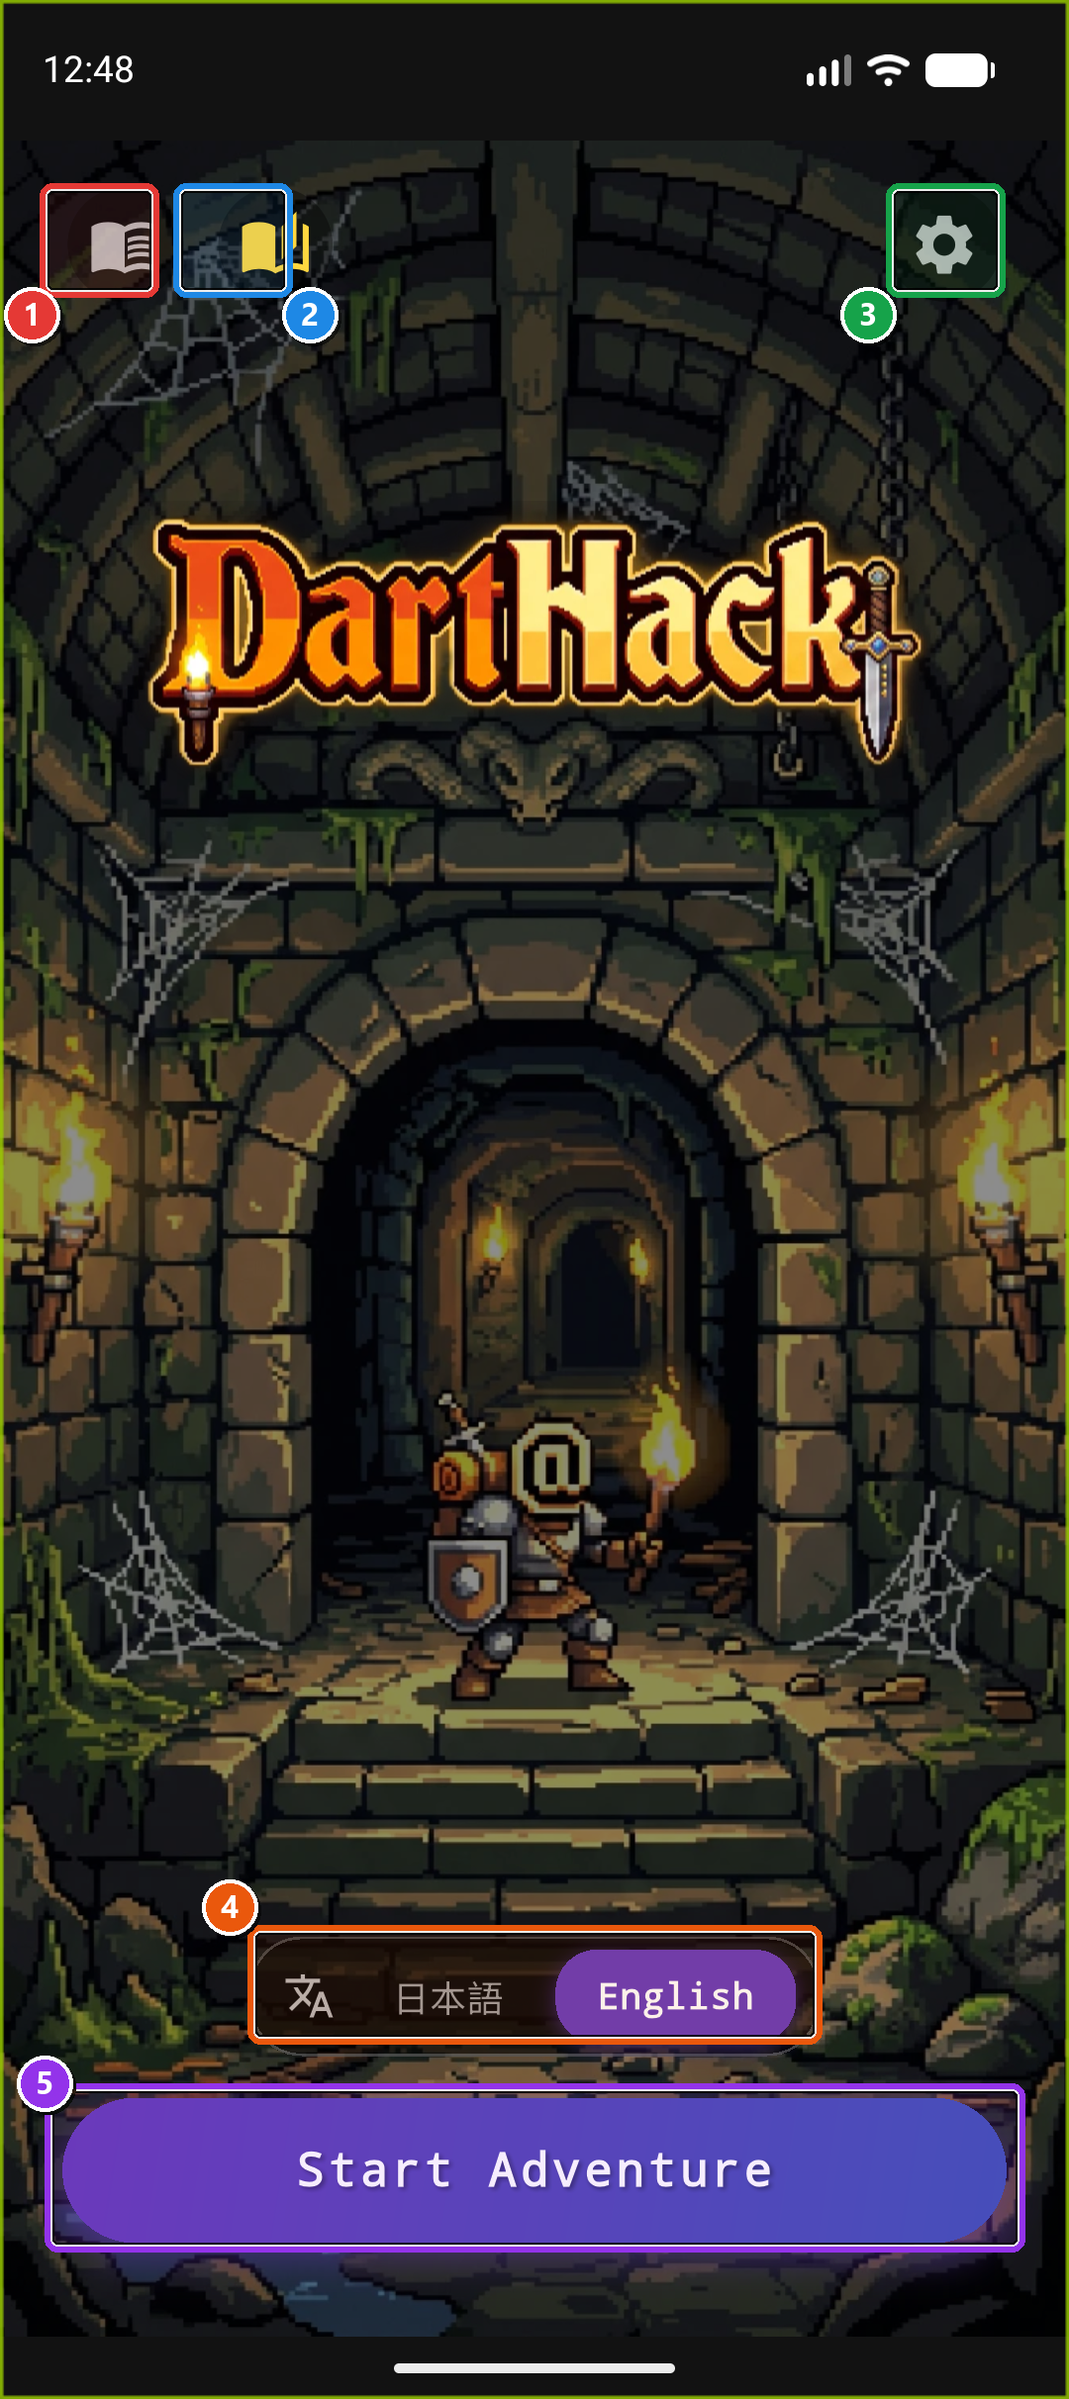
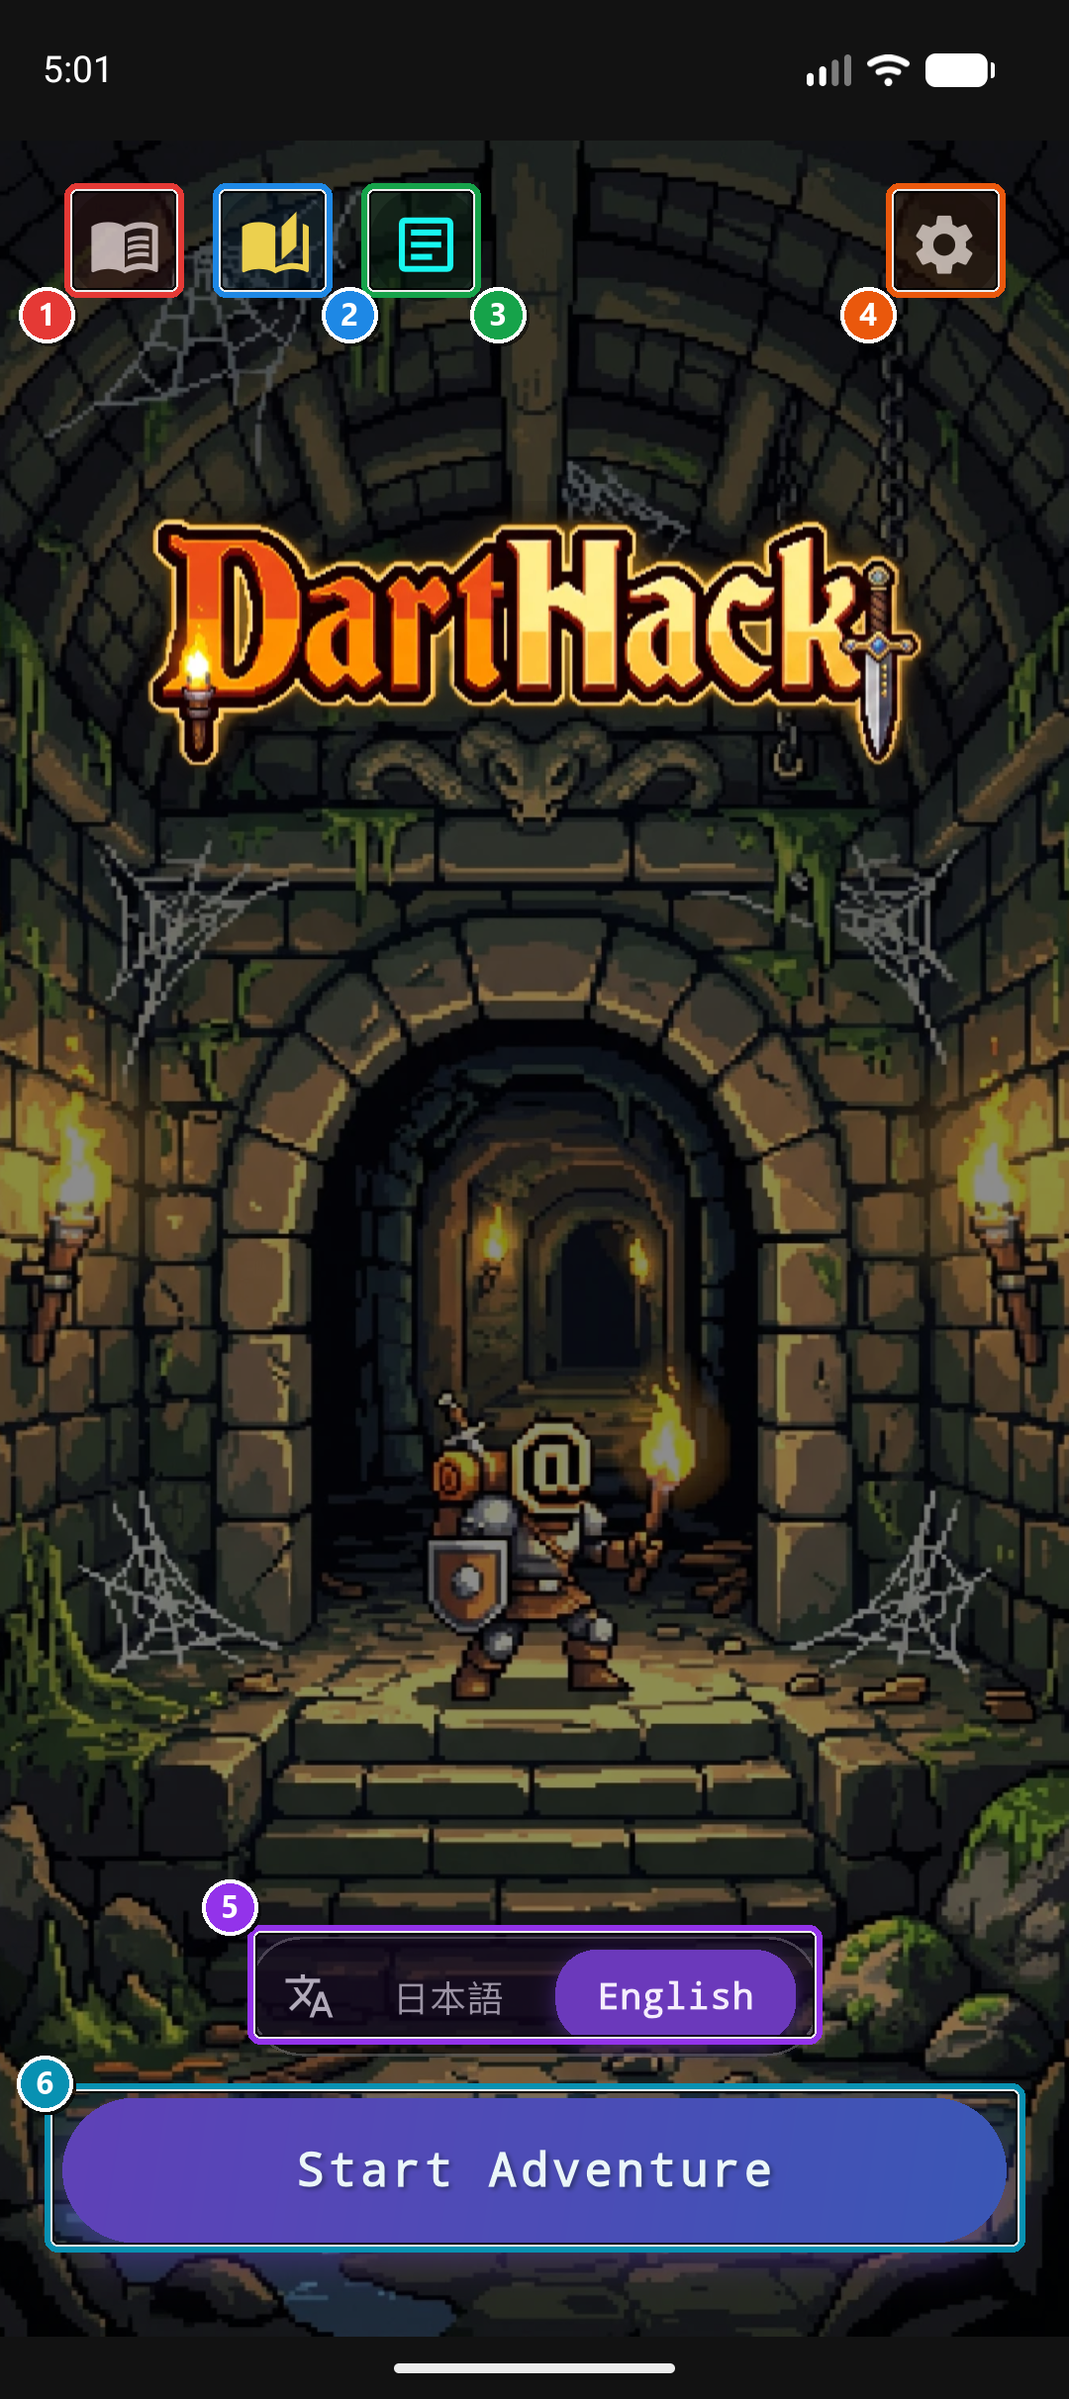
Update JA/EN manuals for in-app manual, fix tablet D-Pad box, and add spoilers feature link

diff --git a/manual.html b/manual.html
@@ -60,11 +60,12 @@
       <ol class="annotated-list">
         <li><span class="badge-num badge-num-1">1</span><span class="annotated-text"><strong>遊び方・ガイドブック</strong>: NetHack の公式ガイドブック（遊び方や基本ルール）をアプリ内で開きます。ゲーム開始前でも読めるため、初めてプレイする際の確認に便利です。</span></li>
         <li><span class="badge-num badge-num-2">2</span><span class="annotated-text"><strong>スポイラー（攻略情報）</strong>: ゲームの仕様やアイテム効果・モンスター情報などの攻略資料（NetHack スポイラー）を閲覧できます。</span></li>
-        <li><span class="badge-num badge-num-3">3</span><span class="annotated-text"><strong>詳細ゲーム設定</strong>: タイルセット・フォント・画面レイアウト・サウンド・<code>defaults.nh</code> などの詳細設定画面を開きます。</span></li>
-        <li><span class="badge-num badge-num-4">4</span><span class="annotated-text"><strong>表示言語の切替（日本語 / English）</strong>: ボタンをタップして <strong>日本語（NetHackJP コア）</strong> と <strong>English（NetHack オリジナルコア）</strong> を切り替えます。タイトル画面およびゲーム全体のUI・エンジン言語が切り替わります。</span></li>
-        <li><span class="badge-num badge-num-5">5</span><span class="annotated-text"><strong>冒険を始める</strong>: キャラクター作成（名前の入力）および既存セーブデータの再開ダイアログへ進みます。</span></li>
+        <li><span class="badge-num badge-num-3">3</span><span class="annotated-text"><strong>DartHack マニュアル</strong>: この DartHack ユーザーマニュアルをアプリ内でオフライン閲覧できます。</span></li>
+        <li><span class="badge-num badge-num-4">4</span><span class="annotated-text"><strong>詳細ゲーム設定</strong>: タイルセット・フォント・画面レイアウト・サウンド・<code>defaults.nh</code> などの詳細設定画面を開きます。</span></li>
+        <li><span class="badge-num badge-num-5">5</span><span class="annotated-text"><strong>表示言語の切替（日本語 / English）</strong>: ボタンをタップして <strong>日本語（NetHackJP コア）</strong> と <strong>English（NetHack オリジナルコア）</strong> を切り替えます。タイトル画面およびゲーム全体のUI・エンジン言語が切り替わります。</span></li>
+        <li><span class="badge-num badge-num-6">6</span><span class="annotated-text"><strong>冒険を始める</strong>: キャラクター作成（名前の入力）および既存セーブデータの再開ダイアログへ進みます。</span></li>
       </ol>
-      <div class="manual-note">セーブデータと言語コアは別々に扱われます。遊びたい言語（日本語または英語）をタイトル画面で選んでから「冒険を始める」を押してください。</div>
+      <div class="manual-note">遊びたい言語（日本語または英語）をタイトル画面で選んでから「冒険を始める」を押してください。</div>
       <p class="manual-desc">---</p>
     </section>
 
@@ -331,7 +332,7 @@
       <ol class="annotated-list">
         <li><span class="badge-num badge-num-1">1</span><span class="annotated-text"><strong>メニューヘッダー</strong>: 「DartHack メニュー」のタイトル領域です。</span></li>
         <li><span class="badge-num badge-num-2">2</span><span class="annotated-text"><strong>セーブと終了操作</strong>: <strong>セーブして終了</strong>（進行状況を保存して安全終了）と <strong>セーブせず終了（放棄）</strong>（セーブを残さず現在の冒険を破棄・確認ダイアログあり）が並びます。</span></li>
-        <li><span class="badge-num badge-num-3">3</span><span class="annotated-text"><strong>記録・ドキュメント閲覧</strong>: <strong>スコアボード</strong>（第9章）、<strong>ガイドブックを読む</strong>（公式ルール解説）、<strong>スポイラーを読む</strong>（攻略データベース）を開きます。</span></li>
+        <li><span class="badge-num badge-num-3">3</span><span class="annotated-text"><strong>記録・ドキュメント閲覧</strong>: <strong>スコアボード</strong>（第9章）、<strong>ガイドブックを読む</strong>（公式ルール解説）、<strong>スポイラーを読む</strong>（攻略データベース）、<strong>マニュアルを読む</strong>（本マニュアルをオフライン閲覧）を開きます。</span></li>
         <li><span class="badge-num badge-num-4">4</span><span class="annotated-text"><strong>ゲーム補助コマンド・検索・画面切替</strong>: <strong>ヘルプを表示 (<code>?</code>)</strong>、<strong>データベース検索 (<code>/?</code>)</strong>、<strong>オプション設定 (<code>O</code>)</strong>、<strong>全体地図を表示 (<code>M-z</code>)</strong> を直接呼び出せます。</span></li>
         <li><span class="badge-num badge-num-5">5</span><span class="annotated-text"><strong>UI・アプリ設定</strong>: <strong>操作ボタンを非表示</strong>（マップを広く見たいときにパッド等を一時非表示）と <strong>ゲーム設定を開く</strong>（詳細ゲーム設定画面へ移動）を実行します。</span></li>
       </ol>

diff --git a/manual_en.html b/manual_en.html
@@ -60,11 +60,12 @@
       <ol class="annotated-list">
         <li><span class="badge-num badge-num-1">1</span><span class="annotated-text"><strong>Guidebook / How to Play</strong>: Opens the built-in NetHack Guidebook inside the app. Available before starting a run so beginners can check core rules at any time.</span></li>
         <li><span class="badge-num badge-num-2">2</span><span class="annotated-text"><strong>Spoilers (Strategy Guide)</strong>: Opens the built-in NetHack Spoilers collection for reference on mechanics, items, and monsters.</span></li>
-        <li><span class="badge-num badge-num-3">3</span><span class="annotated-text"><strong>Game Settings</strong>: Opens the detailed settings screen covering tilesets, fonts, layout patterns, sound, and <code>defaults.nh</code>.</span></li>
-        <li><span class="badge-num badge-num-4">4</span><span class="annotated-text"><strong>Language Switcher (日本語 / English)</strong>: Toggles between <strong>English (upstream NetHack core)</strong> and <strong>日本語 (NetHackJP core)</strong> for both the Flutter UI and the underlying game engine.</span></li>
-        <li><span class="badge-num badge-num-5">5</span><span class="annotated-text"><strong>Start Adventure</strong>: Opens the character name &amp; saved game selection dialog to begin or resume a game.</span></li>
+        <li><span class="badge-num badge-num-3">3</span><span class="annotated-text"><strong>DartHack Manual</strong>: Opens this DartHack User Manual offline inside the app.</span></li>
+        <li><span class="badge-num badge-num-4">4</span><span class="annotated-text"><strong>Game Settings</strong>: Opens the detailed settings screen covering tilesets, fonts, layout patterns, sound, and <code>defaults.nh</code>.</span></li>
+        <li><span class="badge-num badge-num-5">5</span><span class="annotated-text"><strong>Language Switcher (日本語 / English)</strong>: Toggles between <strong>English (upstream NetHack core)</strong> and <strong>日本語 (NetHackJP core)</strong> for both the Flutter UI and the underlying game engine.</span></li>
+        <li><span class="badge-num badge-num-6">6</span><span class="annotated-text"><strong>Start Adventure</strong>: Opens the character name &amp; saved game selection dialog to begin or resume a game.</span></li>
       </ol>
-      <div class="manual-note">Save files are managed per language core. Select your preferred language (<code>English</code> or <code>日本語</code>) on the title screen before tapping <strong>Start Adventure</strong>.</div>
+      <div class="manual-note">Select your preferred language (<code>English</code> or <code>日本語</code>) on the title screen before tapping <strong>Start Adventure</strong>.</div>
       <p class="manual-desc">---</p>
     </section>
 
@@ -331,7 +332,7 @@
       <ol class="annotated-list">
         <li><span class="badge-num badge-num-1">1</span><span class="annotated-text"><strong>Menu Header</strong>: Displays the <strong>DartHack Menu</strong> banner.</span></li>
         <li><span class="badge-num badge-num-2">2</span><span class="annotated-text"><strong>Save &amp; Exit Controls</strong>: Provides <strong>Save &amp; Exit</strong> (saves your current run cleanly) and <strong>Quit without Saving</strong> (abandons the current run with confirmation).</span></li>
-        <li><span class="badge-num badge-num-3">3</span><span class="annotated-text"><strong>Records &amp; Documentation</strong>: Quick access to <strong>Scoreboard</strong> (Chapter 9), <strong>Read Guidebook</strong>, and <strong>Read Spoilers</strong>.</span></li>
+        <li><span class="badge-num badge-num-3">3</span><span class="annotated-text"><strong>Records &amp; Documentation</strong>: Quick access to <strong>Scoreboard</strong> (Chapter 9), <strong>Read Guidebook</strong>, <strong>Read Spoilers</strong>, and <strong>Read Manual</strong> (offline user manual).</span></li>
         <li><span class="badge-num badge-num-4">4</span><span class="annotated-text"><strong>Game Commands &amp; Overlays</strong>: Directly opens <strong>Show Help (<code>?</code>)</strong>, <strong>Database Search (<code>/?</code>)</strong>, <strong>Game Options (<code>O</code>)</strong>, and <strong>Show Full Map (<code>M-z</code>)</strong>.</span></li>
         <li><span class="badge-num badge-num-5">5</span><span class="annotated-text"><strong>UI &amp; App Settings</strong>: Toggle <strong>Hide Controls</strong> to temporarily maximize map visibility, or tap <strong>Open Game Settings</strong> for Flutter app preferences (Chapters 10–16).</span></li>
       </ol>

diff --git a/index.html b/index.html
@@ -60,6 +60,7 @@
       <li>モバイルデバイスで遊びやすいUIをFlutter/Dartで実装しています</li>
       <li><a href="https://www.nethack.org/" target="_blank" rel="noopener">NetHackオリジナル</a>を英語で遊べます</li>
       <li>NetHackを(非公式に)日本語化した<a href="https://github.com/satokiyon/NetHackJP" target="_blank" rel="noopener">NetHackJP</a>を遊べます</li>
+      <li>ゲーム内でスポイラーを読めます（<a href="https://satokiyon.github.io/nethack-companion-jp/spoilers/index.jp.html" target="_blank" rel="noopener">NetHack スポイラー: 脅威の迷宮への旅人の手引き (5.0対応版)</a>）</li>
       <li>iOS / Android / Windows のクロスプラットフォーム対応予定(現在はAndroid版のみ。)</li>
     </ul>
   </section>

diff --git a/index_en.html b/index_en.html
@@ -42,6 +42,7 @@
       <li>Mobile-friendly UI implemented in Flutter/Dart</li>
       <li>Play the <a href="https://www.nethack.org/" target="_blank" rel="noopener">original NetHack</a> in English</li>
       <li>Play <a href="https://github.com/satokiyon/NetHackJP" target="_blank" rel="noopener">NetHackJP</a> (unofficial Japanese localization of NetHack) in Japanese</li>
+      <li>Read spoilers directly inside the app (<a href="https://davidbau.github.io/nethack-companion/spoilers/" target="_blank" rel="noopener">NetHack Spoilers: A Traveler's Companion to the Mazes of Menace</a>)</li>
       <li>Cross-platform iOS / Android / Windows support planned (currently Android only)</li>
     </ul>
   </section>

diff --git a/manual.md b/manual.md
@@ -18,12 +18,13 @@ DartHack は、名作ローグライクゲーム **NetHack 5.0**（日本語版 
 
 1. **遊び方・ガイドブック**: NetHack の公式ガイドブック（遊び方や基本ルール）をアプリ内で開きます。ゲーム開始前でも読めるため、初めてプレイする際の確認に便利です。
 2. **スポイラー（攻略情報）**: ゲームの仕様やアイテム効果・モンスター情報などの攻略資料（NetHack スポイラー）を閲覧できます。
-3. **詳細ゲーム設定**: タイルセット・フォント・画面レイアウト・サウンド・`defaults.nh` などの詳細設定画面を開きます。
-4. **表示言語の切替（日本語 / English）**: ボタンをタップして **日本語（NetHackJP コア）** と **English（NetHack オリジナルコア）** を切り替えます。タイトル画面およびゲーム全体のUI・エンジン言語が切り替わります。
-5. **冒険を始める**: キャラクター作成（名前の入力）および既存セーブデータの再開ダイアログへ進みます。
+3. **DartHack マニュアル**: この DartHack ユーザーマニュアルをアプリ内でオフライン閲覧できます。
+4. **詳細ゲーム設定**: タイルセット・フォント・画面レイアウト・サウンド・`defaults.nh` などの詳細設定画面を開きます。
+5. **表示言語の切替（日本語 / English）**: ボタンをタップして **日本語（NetHackJP コア）** と **English（NetHack オリジナルコア）** を切り替えます。タイトル画面およびゲーム全体のUI・エンジン言語が切り替わります。
+6. **冒険を始める**: キャラクター作成（名前の入力）および既存セーブデータの再開ダイアログへ進みます。
 
 > [!NOTE]
-> セーブデータと言語コアは別々に扱われます。遊びたい言語（日本語または英語）をタイトル画面で選んでから「冒険を始める」を押してください。
+> 遊びたい言語（日本語または英語）をタイトル画面で選んでから「冒険を始める」を押してください。
 
 ---
 
@@ -235,7 +236,7 @@ DartHack は、名作ローグライクゲーム **NetHack 5.0**（日本語版 
 
 1. **メニューヘッダー**: 「DartHack メニュー」のタイトル領域です。
 2. **セーブと終了操作**: **セーブして終了**（進行状況を保存して安全終了）と **セーブせず終了（放棄）**（セーブを残さず現在の冒険を破棄・確認ダイアログあり）が並びます。
-3. **記録・ドキュメント閲覧**: **スコアボード**（第9章）、**ガイドブックを読む**（公式ルール解説）、**スポイラーを読む**（攻略データベース）を開きます。
+3. **記録・ドキュメント閲覧**: **スコアボード**（第9章）、**ガイドブックを読む**（公式ルール解説）、**スポイラーを読む**（攻略データベース）、**マニュアルを読む**（本マニュアルをオフライン閲覧）を開きます。
 4. **ゲーム補助コマンド・検索・画面切替**: **ヘルプを表示 (`?`)**、**データベース検索 (`/?`)**、**オプション設定 (`O`)**、**全体地図を表示 (`M-z`)** を直接呼び出せます。
 5. **UI・アプリ設定**: **操作ボタンを非表示**（マップを広く見たいときにパッド等を一時非表示）と **ゲーム設定を開く**（詳細ゲーム設定画面へ移動）を実行します。
 

diff --git a/manual_en.md b/manual_en.md
@@ -18,12 +18,13 @@ When you launch DartHack, you start on the title screen where you can choose the
 
 1. **Guidebook / How to Play**: Opens the built-in NetHack Guidebook inside the app. Available before starting a run so beginners can check core rules at any time.
 2. **Spoilers (Strategy Guide)**: Opens the built-in NetHack Spoilers collection for reference on mechanics, items, and monsters.
-3. **Game Settings**: Opens the detailed settings screen covering tilesets, fonts, layout patterns, sound, and `defaults.nh`.
-4. **Language Switcher (日本語 / English)**: Toggles between **English (upstream NetHack core)** and **日本語 (NetHackJP core)** for both the Flutter UI and the underlying game engine.
-5. **Start Adventure**: Opens the character name & saved game selection dialog to begin or resume a game.
+3. **DartHack Manual**: Opens this DartHack User Manual offline inside the app.
+4. **Game Settings**: Opens the detailed settings screen covering tilesets, fonts, layout patterns, sound, and `defaults.nh`.
+5. **Language Switcher (日本語 / English)**: Toggles between **English (upstream NetHack core)** and **日本語 (NetHackJP core)** for both the Flutter UI and the underlying game engine.
+6. **Start Adventure**: Opens the character name & saved game selection dialog to begin or resume a game.
 
 > [!NOTE]
-> Save files are managed per language core. Select your preferred language (`English` or `日本語`) on the title screen before tapping **Start Adventure**.
+> Select your preferred language (`English` or `日本語`) on the title screen before tapping **Start Adventure**.
 
 ---
 
@@ -235,7 +236,7 @@ Tap the floating left menu button (or swipe from the left edge, or press `Ctrl+M
 
 1. **Menu Header**: Displays the **DartHack Menu** banner.
 2. **Save & Exit Controls**: Provides **Save & Exit** (saves your current run cleanly) and **Quit without Saving** (abandons the current run with confirmation).
-3. **Records & Documentation**: Quick access to **Scoreboard** (Chapter 9), **Read Guidebook**, and **Read Spoilers**.
+3. **Records & Documentation**: Quick access to **Scoreboard** (Chapter 9), **Read Guidebook**, **Read Spoilers**, and **Read Manual** (offline user manual).
 4. **Game Commands & Overlays**: Directly opens **Show Help (`?`)**, **Database Search (`/?`)**, **Game Options (`O`)**, and **Show Full Map (`M-z`)**.
 5. **UI & App Settings**: Toggle **Hide Controls** to temporarily maximize map visibility, or tap **Open Game Settings** for Flutter app preferences (Chapters 10–16).
 
